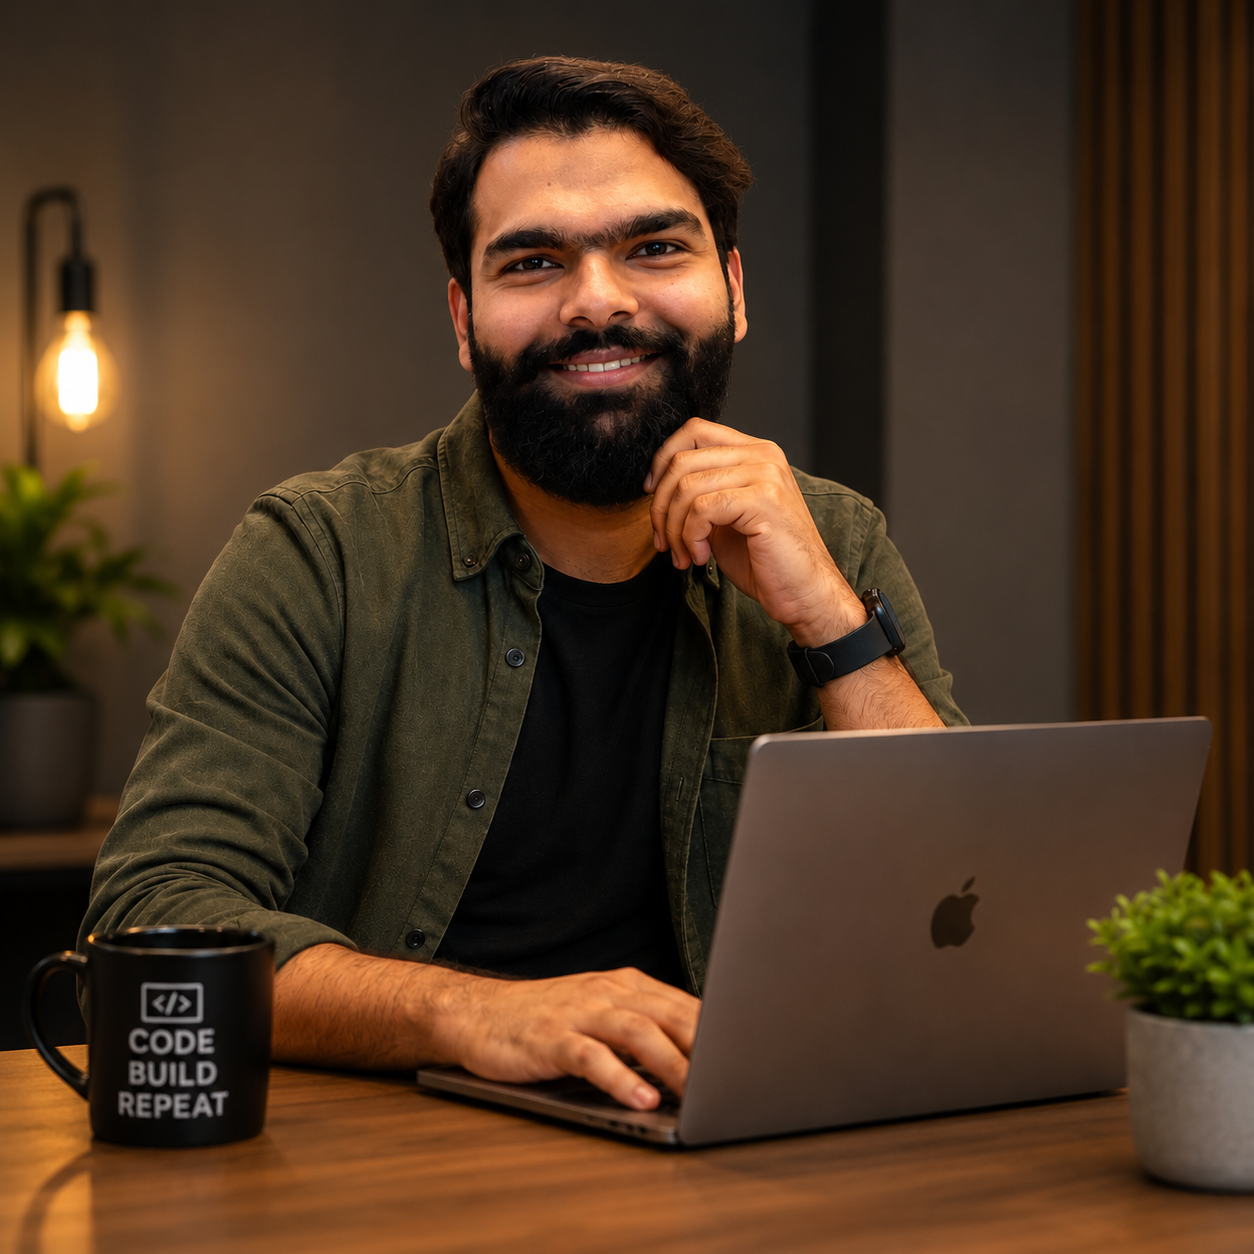
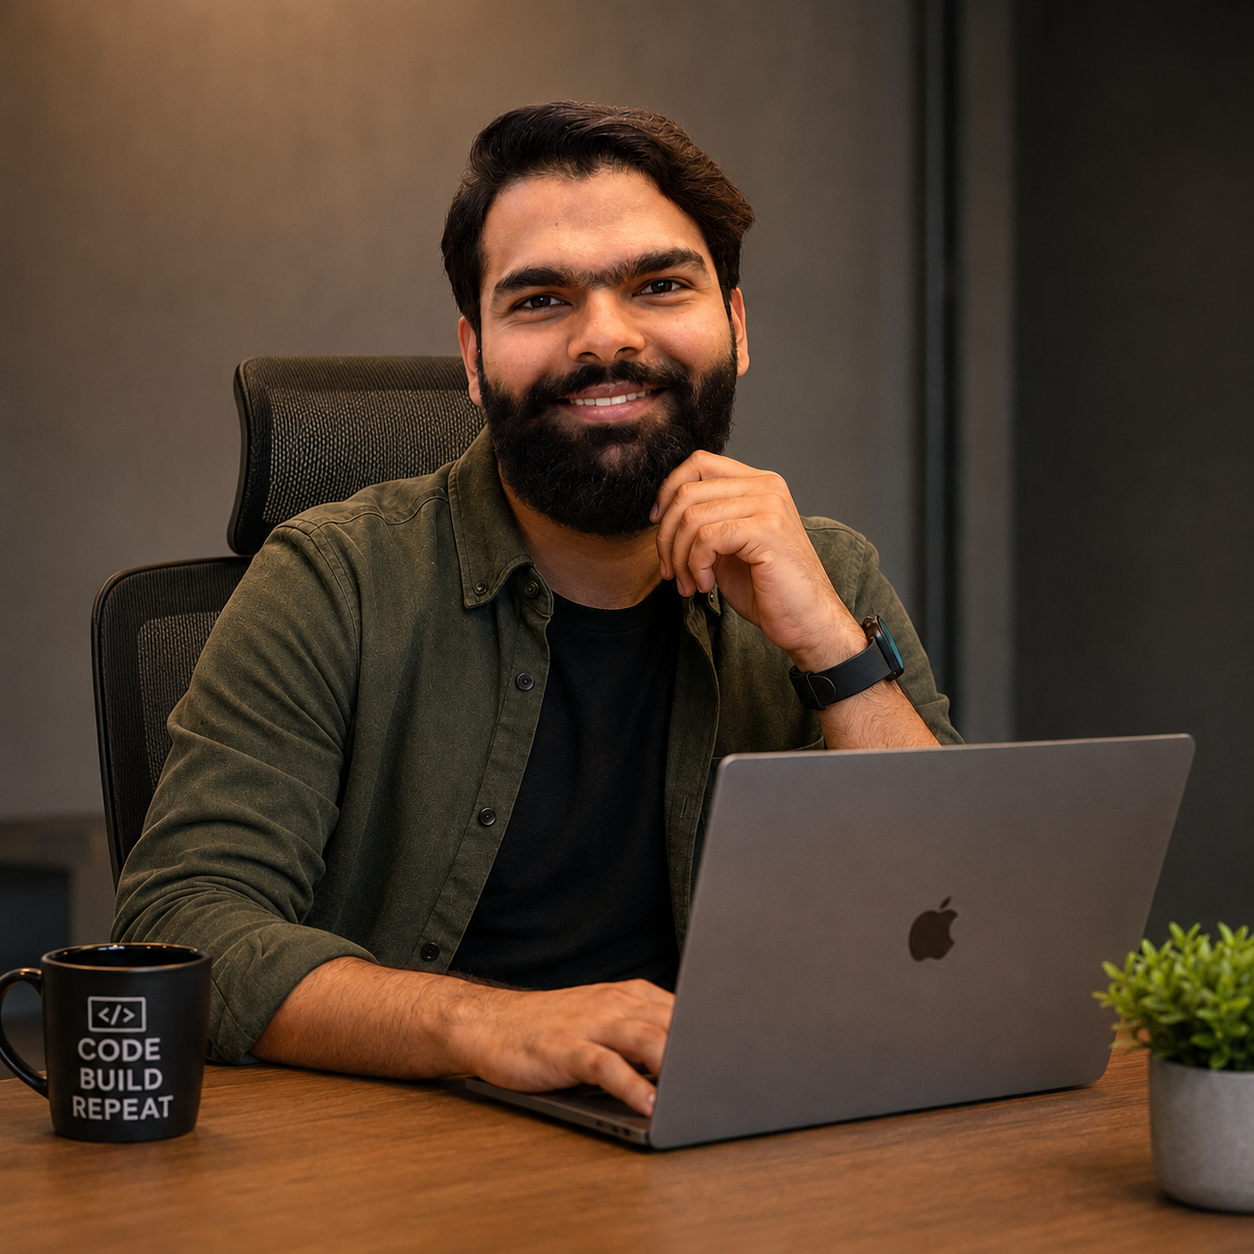
Picture changed and Readme.md added

diff --git a/README.md b/README.md
@@ -1,0 +1,94 @@
+# Muhammad Shahzad Akbar — Portfolio
+
+> AI Engineer · Full-Stack Developer · LLM Systems · RAG Pipelines · Agentic AI
+
+**Live:** [portfolio-shahzadakbar369.vercel.app](https://portfolio-shahzadakbar369.vercel.app) *(update after deploy)*  
+**Email:** shahzadakbar369@gmail.com  
+**LinkedIn:** [linkedin.com/in/shahzadakbar369](https://linkedin.com/in/shahzadakbar369)  
+**GitHub:** [github.com/shahzadakbar369](https://github.com/shahzadakbar369)
+
+---
+
+## About
+
+Personal portfolio website built from scratch with vanilla HTML, CSS, and JavaScript — no frameworks, no build tools. Dark theme, purple-violet accent, fully responsive.
+
+Sections: Hero · Who I Am · Skills · Projects · Experience · Certifications (with lightbox) · FAQ · Contact
+
+---
+
+## Projects Featured
+
+| Project | Stack | Link |
+|---|---|---|
+| **AIRA** - AI Recruitment Platform (FYP) | React, Node.js, Express, MongoDB, Groq LLaMA 3.3 70B | [GitHub](https://github.com/shehr519/AIRA-FYP) |
+| **AI Software House Agent** - Multi-agent pipeline | FastAPI, Python, React 19, Groq SDK | [GitHub](https://github.com/shahzadakbar369/AI-Software-House-Agent) |
+| **AI PDF Chatbot Assistant** - Full-stack RAG | FastAPI, FAISS, Tesseract OCR, MongoDB Atlas, React | [GitHub](https://github.com/shahzadakbar369/AI-PDF-Chatbot-Assistant) |
+
+---
+
+## File Structure
+
+```
+Portfolio/
+├── index.html              # Main page
+├── certifications.html     # Certifications page (backup)
+├── assets/
+│   ├── css/
+│   │   └── style.css       # All styles
+│   ├── js/
+│   │   └── main.js         # All JS logic
+│   └── images/
+│       ├── shahzad_logo.png
+│       ├── Shahzad.png
+│       ├── AIRA.png
+│       ├── AI-PDF-CHATBOT.png
+│       ├── AI-SOFTWARE-HOUSE-AGENT.png
+│       ├── Resume_Shahzad_Akbar.pdf
+│       ├── NAVTTC.png
+│       ├── RELO-English-Works.png
+│       ├── Foster-Flagship.png
+│       ├── OPEN-MOOC.png
+│       ├── Akhuwat-e-Parwaaz.png
+│       ├── Bazm-e-Paigham.png
+│       └── Claude101.png
+└── README.md
+```
+
+---
+
+## Tech
+
+- **HTML5** — semantic structure, no framework
+- **CSS3** — CSS custom properties, grid, flexbox, animations
+- **Vanilla JS** — scroll reveal, FAQ accordion, lightbox, parallax orbs, mailto contact form
+- **Google Fonts** — Space Grotesk + JetBrains Mono
+- **Deployed on** — Vercel
+
+---
+
+## Run Locally
+
+No build step needed. Just open `index.html` in a browser, or use VS Code Live Server:
+
+```bash
+# If you have Live Server installed in VS Code
+# Right-click index.html → Open with Live Server
+```
+
+Or with Python:
+
+```bash
+python -m http.server 8000
+# then open http://localhost:8000
+```
+
+---
+
+## Education
+
+BS Computer Science — Government College University (GCU), Lahore · Dec 2022 - May 2026
+
+---
+
+*Built by Shahzad Akbar · 2026*
